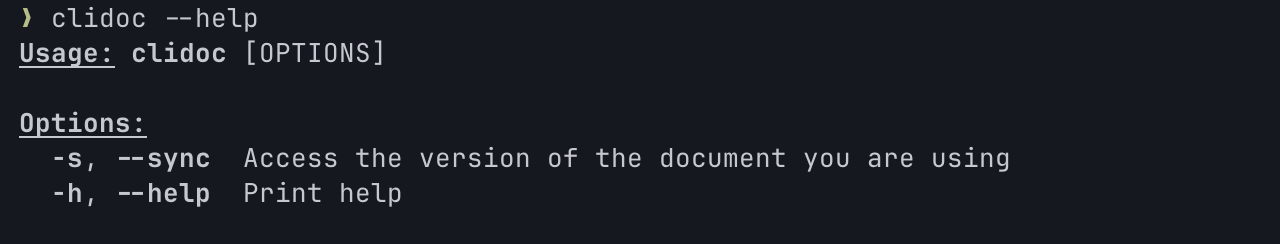
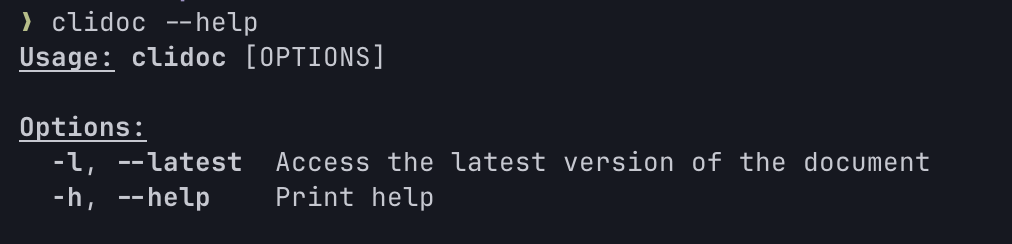
feat: default is using version

diff --git a/src/main.rs b/src/main.rs
@@ -11,9 +11,9 @@ struct Cli {
         short,
         long,
         default_value_t = false,
-        help = "Access the version of the document you are using"
+        help = "Access the latest version of the document"
     )]
-    sync: bool,
+    latest: bool,
 }
 
 #[derive(Debug, Clone, Copy, strum::Display, strum::EnumIter)]
@@ -179,7 +179,9 @@ async fn main() -> Result<()> {
     )
     .prompt()?;
 
-    let version = if cli.sync {
+    let version = if cli.latest {
+        "latest".to_string()
+    } else {
         let mut cmd = MetadataCommand::new();
         let package_graph = PackageGraph::from_command(&mut cmd)?;
         let re = s.regex_packge_id();
@@ -195,8 +197,6 @@ async fn main() -> Result<()> {
             }
         }
         version
-    } else {
-        "latest".to_string()
     };
     let s = s.url_expression();
     let url =
